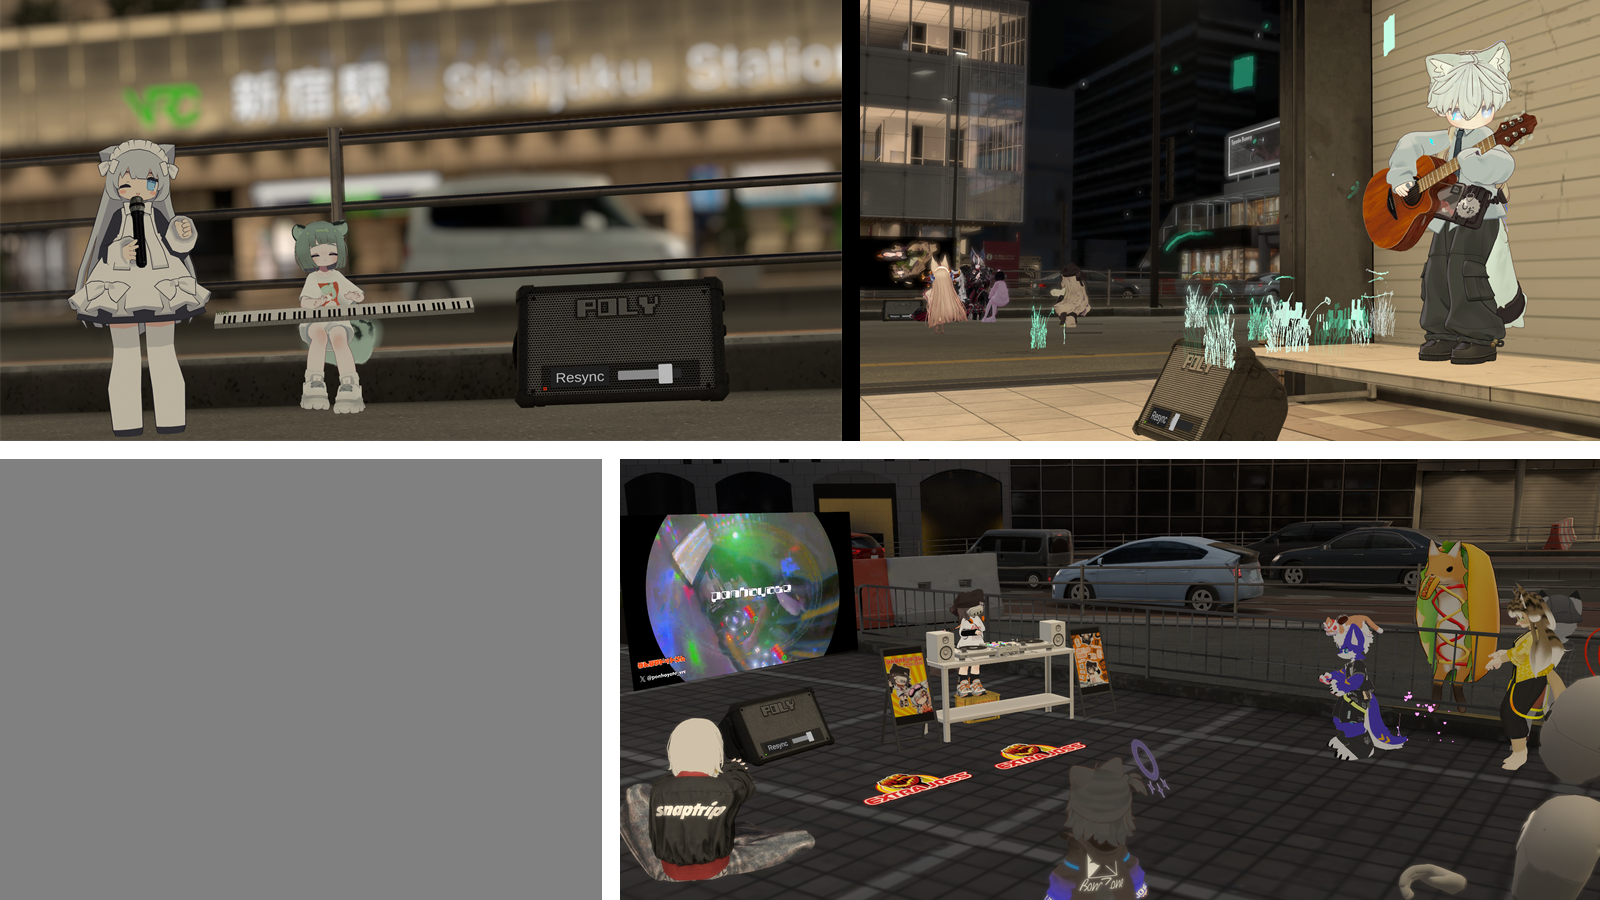
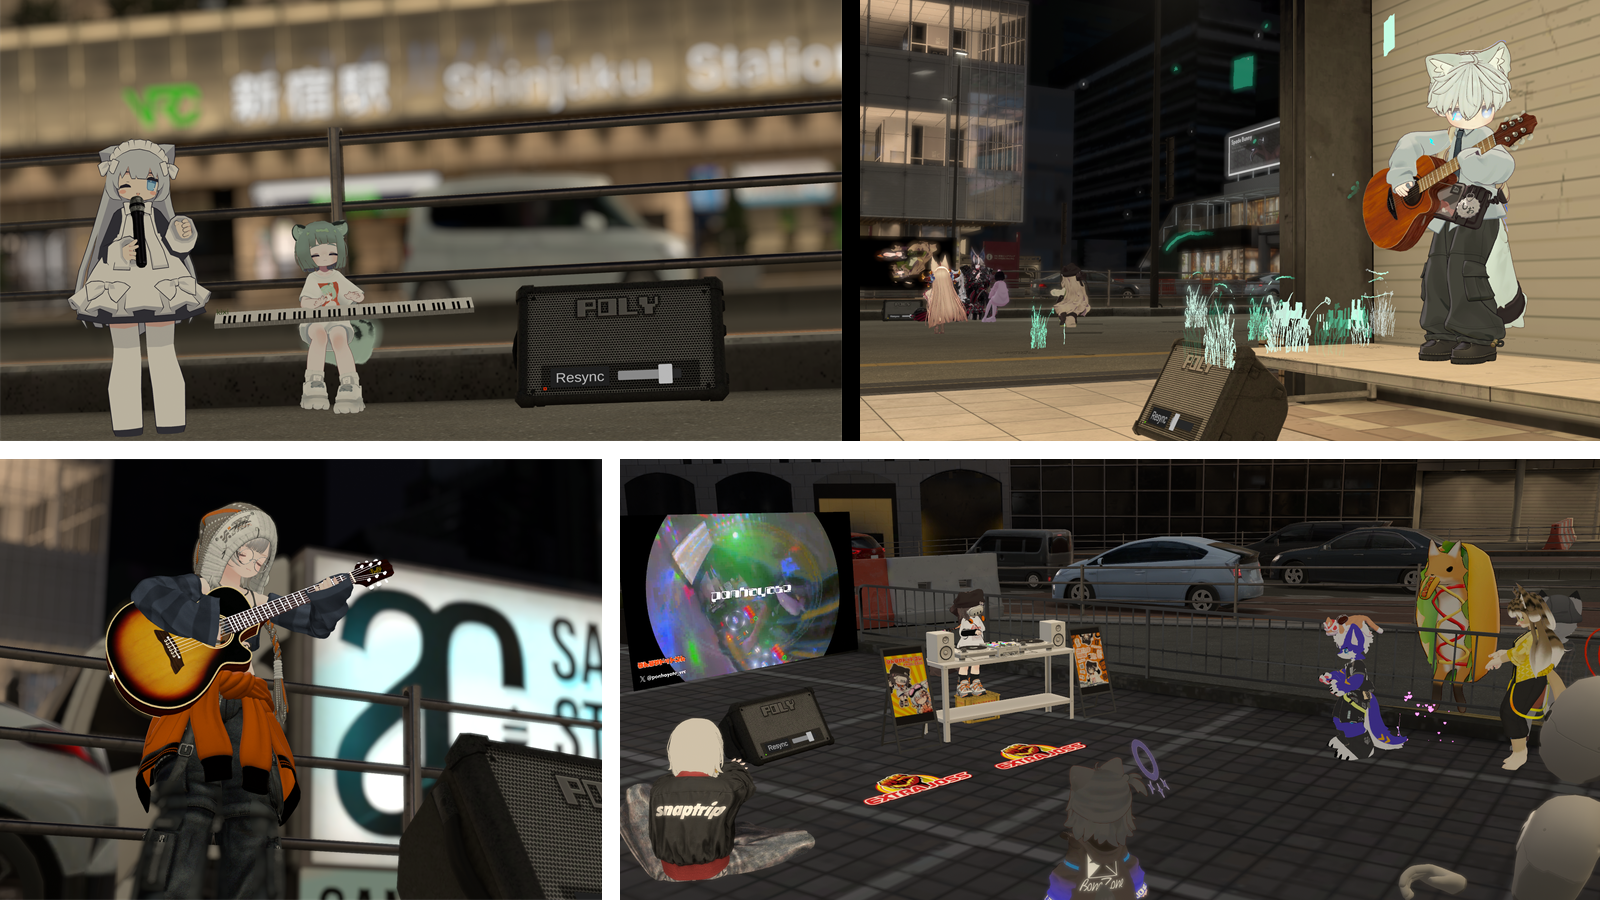
docs: 커뮤니티 갤러리와 사진 제공 정보 갱신

Changed region(s): [[0.0, 0.4978, 0.375, 1.0]]

diff --git a/README.md b/README.md
@@ -46,12 +46,12 @@
 </p>
 
 <p align="center">
-  <img src="./Docs/images/community-gallery.png" alt="3枚のストリートライブ写真と今後追加するコミュニティ写真の掲載エリア" width="900">
+  <img src="./Docs/images/community-gallery.png" alt="ストリートライブと観客の様子を紹介する4枚の写真" width="900">
 </p>
 
 https://github.com/user-attachments/assets/9ec884f0-df47-49f0-b39f-327cdfda0ede
 
-<p align="center"><sub>動画提供：<a href="https://x.com/KixiVRC">@KixiVRC</a> · 写真提供：<a href="https://x.com/KixiVRC">@KixiVRC</a>, <a href="https://x.com/aoiaoitabi">@aoiaoitabi</a>, <a href="https://x.com/taque_0409">@taque_0409</a>, <a href="https://x.com/ponhayate_vrc">@ponhayate_vrc</a></sub></p>
+<p align="center"><sub>動画提供：<a href="https://x.com/KixiVRC">@KixiVRC</a> · 写真提供：<a href="https://x.com/KixiVRC">@KixiVRC</a>, <a href="https://x.com/aoiaoitabi">@aoiaoitabi</a>, <a href="https://x.com/taque_0409">@taque_0409</a>, <a href="https://x.com/ponhayate_vrc">@ponhayate_vrc</a>, <a href="https://x.com/Samp1e_vd7">@Samp1e_vd7</a></sub></p>
 
 ---
 

diff --git a/README.en.md b/README.en.md
@@ -46,12 +46,12 @@
 </p>
 
 <p align="center">
-  <img src="./Docs/images/community-gallery.png" alt="Three street performance photos with space reserved for one more community photo" width="900">
+  <img src="./Docs/images/community-gallery.png" alt="Four photos of street performances and their audiences" width="900">
 </p>
 
 https://github.com/user-attachments/assets/9ec884f0-df47-49f0-b39f-327cdfda0ede
 
-<p align="center"><sub>Video provided by <a href="https://x.com/KixiVRC">@KixiVRC</a> · Photos provided by <a href="https://x.com/KixiVRC">@KixiVRC</a>, <a href="https://x.com/aoiaoitabi">@aoiaoitabi</a>, <a href="https://x.com/taque_0409">@taque_0409</a>, <a href="https://x.com/ponhayate_vrc">@ponhayate_vrc</a></sub></p>
+<p align="center"><sub>Video provided by <a href="https://x.com/KixiVRC">@KixiVRC</a> · Photos provided by <a href="https://x.com/KixiVRC">@KixiVRC</a>, <a href="https://x.com/aoiaoitabi">@aoiaoitabi</a>, <a href="https://x.com/taque_0409">@taque_0409</a>, <a href="https://x.com/ponhayate_vrc">@ponhayate_vrc</a>, <a href="https://x.com/Samp1e_vd7">@Samp1e_vd7</a></sub></p>
 
 ---
 

diff --git a/README.ko.md b/README.ko.md
@@ -46,12 +46,12 @@
 </p>
 
 <p align="center">
-  <img src="./Docs/images/community-gallery.png" alt="세 장의 거리 공연 사진과 추후 추가할 커뮤니티 사진 영역" width="900">
+  <img src="./Docs/images/community-gallery.png" alt="거리 공연과 관객의 모습을 담은 네 장의 사진" width="900">
 </p>
 
 https://github.com/user-attachments/assets/9ec884f0-df47-49f0-b39f-327cdfda0ede
 
-<p align="center"><sub>영상 제공: <a href="https://x.com/KixiVRC">@KixiVRC</a> · 사진 제공: <a href="https://x.com/KixiVRC">@KixiVRC</a>, <a href="https://x.com/aoiaoitabi">@aoiaoitabi</a>, <a href="https://x.com/taque_0409">@taque_0409</a>, <a href="https://x.com/ponhayate_vrc">@ponhayate_vrc</a></sub></p>
+<p align="center"><sub>영상 제공: <a href="https://x.com/KixiVRC">@KixiVRC</a> · 사진 제공: <a href="https://x.com/KixiVRC">@KixiVRC</a>, <a href="https://x.com/aoiaoitabi">@aoiaoitabi</a>, <a href="https://x.com/taque_0409">@taque_0409</a>, <a href="https://x.com/ponhayate_vrc">@ponhayate_vrc</a>, <a href="https://x.com/Samp1e_vd7">@Samp1e_vd7</a></sub></p>
 
 ---
 
